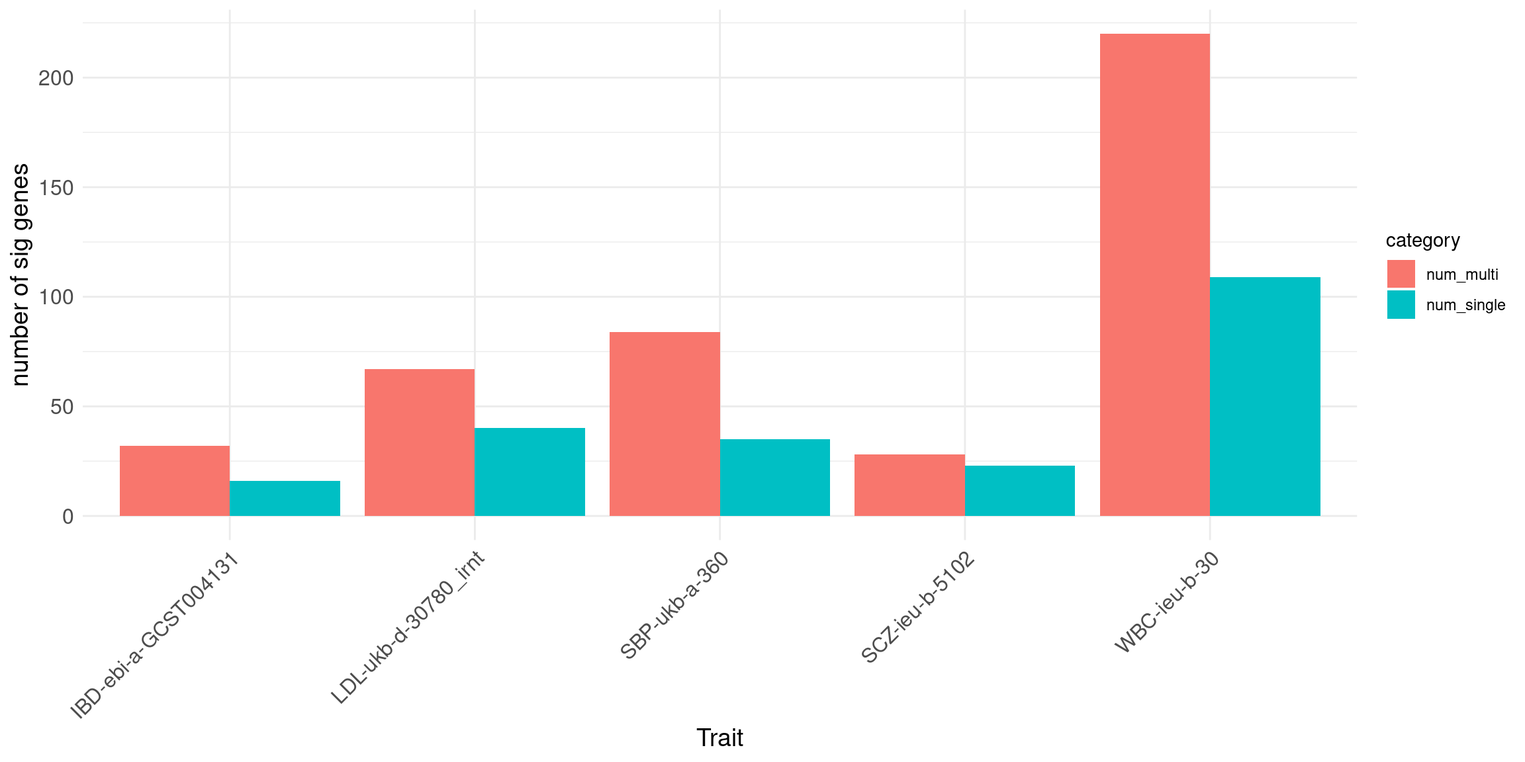
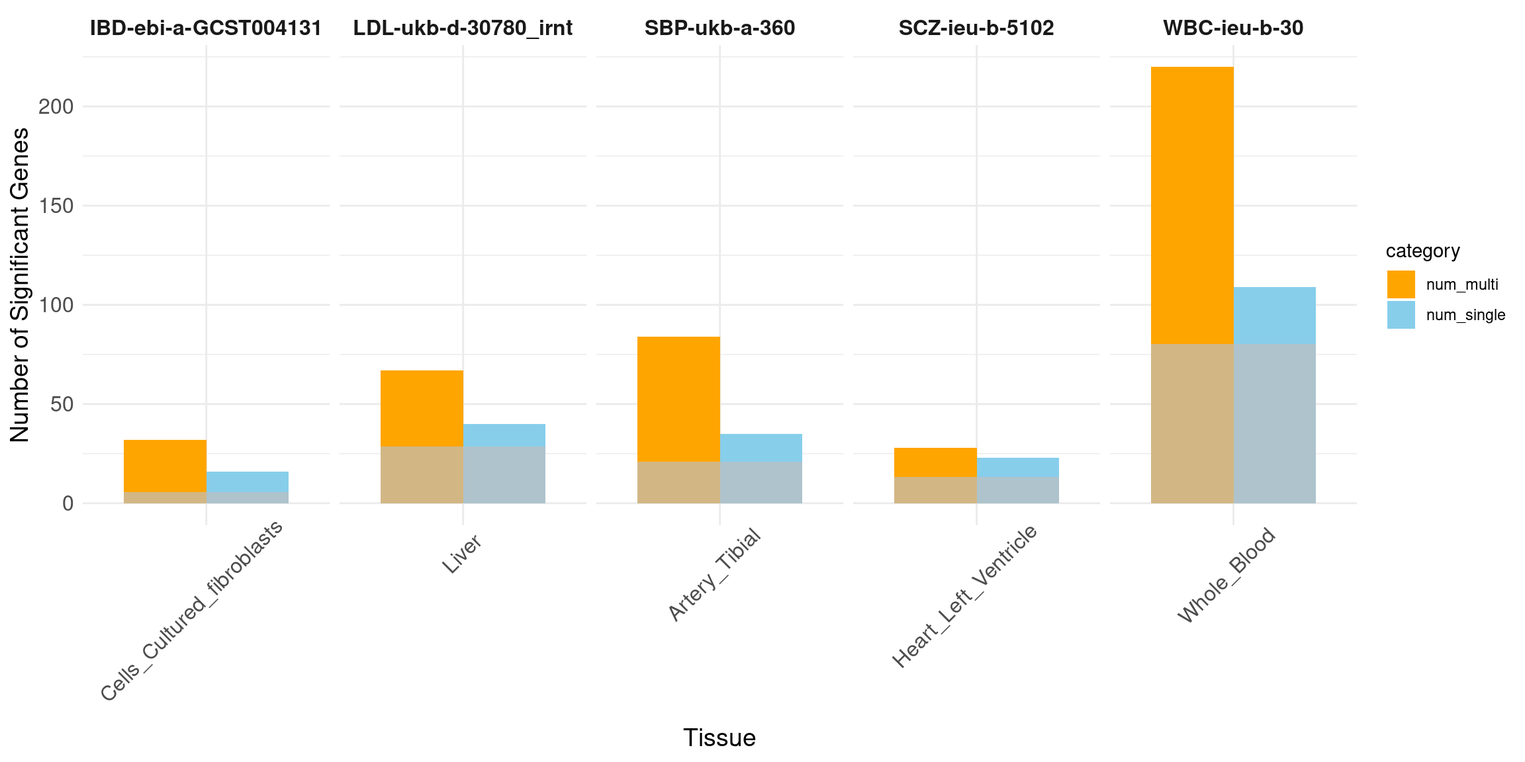
update

diff --git a/docs/multi_group_6traits_15weights_ukbb_summary.html b/docs/multi_group_6traits_15weights_ukbb_summary.html
@@ -411,7 +411,7 @@ aria-hidden="true"></span> </a>
 <div class="tab-content">
 <div id="summary" class="tab-pane fade in active">
 <p>
-<strong>Last updated:</strong> 2024-06-02
+<strong>Last updated:</strong> 2024-06-03
 </p>
 <p>
 <strong>Checks:</strong> <span
@@ -545,15 +545,15 @@ project makes it easier to run your code on other machines.</p>
 <div class="panel panel-default">
 <div class="panel-heading">
 <p class="panel-title">
-<a data-toggle="collapse" data-parent="#workflowr-checks" href="#strongRepositoryversionstrongahrefhttpsgithubcomsq96multigroupctwasanalysistree44f18aea61a1eaff3753a7bcacca99aa0e0b7742targetblank44f18aea">
+<a data-toggle="collapse" data-parent="#workflowr-checks" href="#strongRepositoryversionstrongahrefhttpsgithubcomsq96multigroupctwasanalysistreed2af15486d25367e0842e9e7d86c23d558aea039targetblankd2af154a">
 <span class="glyphicon glyphicon-ok text-success"
 aria-hidden="true"></span> <strong>Repository version:</strong>
-<a href="https://github.com/sq-96/multigroup_ctwas_analysis/tree/44f18aea61a1eaff3753a7bcacca99aa0e0b7742" target="_blank">44f18ae</a>
+<a href="https://github.com/sq-96/multigroup_ctwas_analysis/tree/d2af15486d25367e0842e9e7d86c23d558aea039" target="_blank">d2af154</a>
 </a>
 </p>
 </div>
 <div
[2 lines of base64/hex data omitted]
 class="panel-collapse collapse">
 <div class="panel-body">
 <p>
@@ -563,7 +563,7 @@ reproducibility.
 </p>
 <p>
 The results in this page were generated with repository version
-<a href="https://github.com/sq-96/multigroup_ctwas_analysis/tree/44f18aea61a1eaff3753a7bcacca99aa0e0b7742" target="_blank">44f18ae</a>.
+<a href="https://github.com/sq-96/multigroup_ctwas_analysis/tree/d2af15486d25367e0842e9e7d86c23d558aea039" target="_blank">d2af154</a>.
 See the <em>Past versions</em> tab to see a history of the changes made
 to the R Markdown and HTML files.
 </p>
@@ -630,6 +630,40 @@ Message
 </tr>
 </thead>
 <tbody>
+<tr>
+<td>
+Rmd
+</td>
+<td>
+<a href="https://github.com/sq-96/multigroup_ctwas_analysis/blob/d2af15486d25367e0842e9e7d86c23d558aea039/analysis/multi_group_6traits_15weights_ukbb_summary.Rmd" target="_blank">d2af154</a>
+</td>
+<td>
+XSun
+</td>
+<td>
+2024-06-02
+</td>
+<td>
+update
+</td>
+</tr>
+<tr>
+<td>
+html
+</td>
+<td>
+<a href="https://rawcdn.githack.com/sq-96/multigroup_ctwas_analysis/d2af15486d25367e0842e9e7d86c23d558aea039/docs/multi_group_6traits_15weights_ukbb_summary.html" target="_blank">d2af154</a>
+</td>
+<td>
+XSun
+</td>
+<td>
+2024-06-02
+</td>
+<td>
+update
+</td>
+</tr>
 <tr>
 <td>
 Rmd
@@ -920,23 +954,64 @@ XSun
 single tissue analysis).</p>
 <p>Bar plot.</p>
 <p>Message: increased power from multi-omics multi-tissue analysis.</p>
-<pre class="r"><code>data &lt;- data.frame(
-  trait = traits,
-  num_single = c(16,40,35,23,109),
-  tissue_single = c(&quot;Cells_Cultured_fibroblasts&quot;,&quot;Liver&quot;,&quot;Artery_Tibial&quot;,&quot;Heart_Left_Ventricle&quot;,&quot;Whole_Blood&quot;),
-  num_multi = c(32,67,84,28,220)
-)
+<pre class="r"><code>folder_data &lt;- &quot;/project/xinhe/xsun/multi_group_ctwas/5.multi_group_testing/analy_results/&quot;
 
-data_long &lt;- pivot_longer(data, cols = c(num_single, num_multi), names_to = &quot;category&quot;, values_to = &quot;count&quot;)
+sum &lt;- c()
+for (i in 1:length(traits)) {
+  
+  file_mg_sig &lt;- paste0(folder_data,&quot;MG_fineres_sig_&quot;,traits[i],&quot;.rdata&quot;)
+  load(file_mg_sig)
+  
+  file_sg_sig &lt;- paste0(folder_data,&quot;SG_fineres_sig_&quot;,traits[i],&quot;.rdata&quot;)
+  load(file_sg_sig)
+  
+  context_counts &lt;- sig_gene_alltissue %&gt;%
+  group_by(context) %&gt;%
+  summarise(count = n()) %&gt;%
+  ungroup()
+  
+  most_rows_context &lt;- context_counts %&gt;%
+  filter(count == max(count)) %&gt;%
+  pull(context) # Extracts the context name
 
-ggplot(data_long, aes(x = trait, y = count, fill = category)) +
-  geom_bar(stat = &quot;identity&quot;, position = position_dodge()) +
-  labs(x = &quot;Trait&quot;, y = &quot;number of sig genes&quot;) +
+  sig_gene_toptissue &lt;- sig_gene_alltissue %&gt;%
+  filter(context == most_rows_context)
+
+  overlap &lt;- sum(sig_gene_multi$genename %in% sig_gene_toptissue$gene_name)
+  
+  tmp &lt;- c(nrow(sig_gene_multi),overlap, nrow(sig_gene_toptissue),unique(sig_gene_toptissue$context))
+  sum &lt;- rbind(sum,tmp)
+}
+
+sum &lt;- as.data.frame(sum)
+colnames(sum) &lt;- c(&quot;num_multi&quot;,&quot;overlap&quot;,&quot;num_single&quot;,&quot;tissue_single&quot;)
+rownames(sum) &lt;- seq(1:nrow(sum))
+sum$trait &lt;- traits
+
+sum$num_multi &lt;- as.numeric(sum$num_multi)
+sum$num_single &lt;- as.numeric(sum$num_single)
+sum$overlap &lt;- as.numeric(sum$overlap)
+sum$overlap_adj &lt;- as.numeric(sum$overlap) * 1.1  # Adjust the value to slightly offset behind the main bars
+
+sum &lt;- sum %&gt;%
+  mutate(tissue_single = str_replace(tissue_single, &quot;_singlegroup&quot;, &quot;&quot;))
+
+data_long &lt;- pivot_longer(sum, cols = c(num_single, num_multi), names_to = &quot;category&quot;, values_to = &quot;count&quot;)
+
+# Facet by trait, with tissues as the bars
+ggplot(data_long, aes(x = tissue_single, y = count, fill = category)) +
+  geom_bar(stat = &quot;identity&quot;, position = position_dodge(width = 0.8), width = 0.8) +
+  geom_bar(data = sum, aes(x = tissue_single, y = overlap_adj), stat = &quot;identity&quot;, position = position_dodge(width = 0.8), fill = &quot;grey&quot;, alpha = 0.7, width = 0.8) +
+  facet_wrap(~ trait, nrow = 1, scales = &quot;free_x&quot;) +  # Display all facets in one row with free scales on x
+  labs(x = &quot;Tissue&quot;, y = &quot;Number of Significant Genes&quot;) +
+  scale_fill_manual(values = c(&quot;num_single&quot; = &quot;skyblue&quot;, &quot;num_multi&quot; = &quot;orange&quot;)) +
   theme_minimal() +
-  theme(axis.text.x = element_text(size = 12, angle = 45, hjust = 1), 
+  theme(axis.text.x = element_text(size = 12, angle = 45, vjust = 0.7, hjust = 0.6),  # Adjusted hjust here
         axis.text.y = element_text(size = 12),
-        axis.title.x = element_text(size = 14), 
-        axis.title.y = element_text(size = 14))</code></pre>
+        axis.title.x = element_text(size = 14),
+        axis.title.y = element_text(size = 14),
+        strip.background = element_blank(),
+        strip.text.x = element_text(size = 12, face = &quot;bold&quot;))</code></pre>
 <p><img src="figure/multi_group_6traits_15weights_ukbb_summary.Rmd/unnamed-chunk-7-1.png" width="1152" style="display: block; margin: auto;" /></p>
 <p>
 <button type="button" class="btn btn-default btn-xs btn-workflowr btn-workflowr-fig" data-toggle="collapse" data-target="#fig-unnamed-chunk-7-1">
@@ -1053,6 +1128,9 @@ mechanisms.</p>
   by_sQTLapaQTL = c(0, 2, 0, 0, 3),
   unspecified = c(3, 5, 9, 4, 32)
 )
+
+df$by_apaQTL &lt;- df$by_apaQTL + df$by_sQTLapaQTL
+df &lt;- df[,-5]
 
 # Calculate the row sums for all columns except the first (trait)
 row_totals &lt;- rowSums(df[, -1])
@@ -1207,27 +1285,27 @@ tissue analysis.</p>
 
 DT::datatable(novel_gene_multi,caption = htmltools::tags$caption( style = &#39;caption-side: topleft; text-align = left; color:black;&#39;,&#39;Novel genes identified by MG-cTWAS, IBD-ebi-a-GCST004131&#39;),options = list(pageLength = 5) )</code></pre>
 <div id="htmlwidget-4de263013227ca78a293" style="width:100%;height:auto;" class="datatables html-widget"></div>
-<script type="application/json" data-for="htmlwidget-4de263013227ca78a293">{"x":{"filter":"none","vertical":false,"caption":"<caption style=\"caption-side: topleft; text-align = left; color:black;\">Novel genes identified by MG-cTWAS, IBD-ebi-a-GCST004131<\/caption>","data":[["1","2","3","4","5","6","7","8","9","10","11","12","13","14"],["ADAM15","ATG16L1","CDK11A","ERAP2","ERI3","IP6K2","KANSL1","MAST2","PHF1","PPP5C","RTEL1","SBNO2","SPNS1","ZNF300"],[0.962,0.963,0.963,0.82,0.962,1.244,1,0.911,0.969,0.831,0.932,0.947,0.999,0.825],[0.088,0.039,0.963,0.092,0.05,0.07,1,0.05,0.969,0.009,0,0.06,0.999,0],[0.363,0.573,0,0.32,0.599,0.411,0,0.388,0,0,0,0.888,0,0.074],[0,0.018,0,0.237,0,0.549,0,0.169,0,0.499,0.932,0,0,0.728],[0.034,0.019,0,0.083,0.058,0.04,0,0.048,0,0.323,0,0,0,0.011],[0.476,0.313,0,0.088,0.255,0.174,0,0.255,0,0,0,0,0,0.012],[0,0,0.963,0.069,0,0,0,0,0.969,0,0,0,0.999,0],[0.011,0.018,0,0.329,0,0,0,0,0,0.831,0,0,0,0.802],[0.951,0.944,0,0.422,0.962,1.244,1,0.911,0,0,0.932,0.947,0,0.023],["Adipose_Subcutaneous:0.856cs_0,Esophagus_Mucosa:0.032cs_0,Whole_Blood:NA,Heart_Left_Ventricle:0.013cs_0,Cells_Cultured_fibroblasts:0.173cs_0","Adipose_Subcutaneous:NA,Esophagus_Mucosa:NA,Whole_Blood:NA,Heart_Left_Ventricle:NA,Cells_Cultured_fibroblasts:NA","Adipose_Subcutaneous:0.015cs_0,Esophagus_Mucosa:NA,Whole_Blood:NA,Heart_Left_Ventricle:NA,Cells_Cultured_fibroblasts:NA","Adipose_Subcutaneous:0.302cs_1,Esophagus_Mucosa:0.294cs_1,Whole_Blood:0.392cs_1,Heart_Left_Ventricle:0.281cs_1,Cells_Cultured_fibroblasts:0.324cs_1","Adipose_Subcutaneous:NA,Esophagus_Mucosa:NA,Whole_Blood:NA,Heart_Left_Ventricle:NA,Cells_Cultured_fibroblasts:NA","Adipose_Subcutaneous:0.008cs_0,Esophagus_Mucosa:NA,Whole_Blood:0.011cs_0,Heart_Left_Ventricle:NA,Cells_Cultured_fibroblasts:NA","Adipose_Subcutaneous:NA,Esophagus_Mucosa:NA,Whole_Blood:NA,Heart_Left_Ventricle:NA,Cells_Cultured_fibroblasts:NA","Adipose_Subcutaneous:0.014cs_0,Esophagus_Mucosa:0.018cs_0,Whole_Blood:0.019cs_0,Heart_Left_Ventricle:0.013cs_0,Cells_Cultured_fibroblasts:0.011cs_0","Adipose_Subcutaneous:NA,Esophagus_Mucosa:NA,Whole_Blood:NA,Heart_Left_Ventricle:NA,Cells_Cultured_fibroblasts:NA","Adipose_Subcutaneous:0.171cs_0,Esophagus_Mucosa:0.097cs_0,Whole_Blood:0.785cs_2,Heart_Left_Ventricle:0.73cs_2,Cells_Cultured_fibroblasts:NA","Adipose_Subcutaneous:0cs_0,Esophagus_Mucosa:NA,Whole_Blood:0cs_0,Heart_Left_Ventricle:0cs_0,Cells_Cultured_fibroblasts:NA","Adipose_Subcutaneous:NA,Esophagus_Mucosa:0.9cs_0,Whole_Blood:NA,Heart_Left_Ventricle:NA,Cells_Cultured_fibroblasts:NA","Adipose_Subcutaneous:NA,Esophagus_Mucosa:0.066cs_0,Whole_Blood:0.128cs_0,Heart_Left_Ventricle:0.04cs_0,Cells_Cultured_fibroblasts:0.024cs_0","Adipose_Subcutaneous:NA,Esophagus_Mucosa:0.601cs_1,Whole_Blood:0.793cs_1,Heart_Left_Ventricle:NA,Cells_Cultured_fibroblasts:NA"]],"container":"<table class=\"display\">\n  <thead>\n    <tr>\n      <th> <\/th>\n      <th>genename<\/th>\n      <th>combined_pip<\/th>\n      <th>Adipose_Subcutaneous<\/th>\n      <th>Esophagus_Mucosa<\/th>\n      <th>Whole_Blood<\/th>\n      <th>Heart_Left_Ventricle<\/th>\n      <th>Cells_Cultured_fibroblasts<\/th>\n      <th>apaQTL<\/th>\n      <th>eQTL<\/th>\n      <th>sQTL<\/th>\n      <th>pip_single_group<\/th>\n    <\/tr>\n  <\/thead>\n<\/table>","options":{"pageLength":5,"columnDefs":[{"className":"dt-right","targets":[2,3,4,5,6,7,8,9,10]},{"orderable":false,"targets":0}],"order":[],"autoWidth":false,"orderClasses":false,"lengthMenu":[5,10,25,50,100]}},"evals":[],"jsHooks":[]}</script>
+<script type="application/json" data-for="htmlwidget-4de263013227ca78a293">{"x":{"filter":"none","vertical":false,"caption":"<caption style=\"caption-side: topleft; text-align = left; color:black;\">Novel genes identified by MG-cTWAS, IBD-ebi-a-GCST004131<\/caption>","data":[[],[],[],[],[],[],[],[],[],[],[],[]],"container":"<table class=\"display\">\n  <thead>\n    <tr>\n      <th> <\/th>\n      <th>genename<\/th>\n      <th>combined_pip<\/th>\n      <th>Adipose_Subcutaneous<\/th>\n      <th>Esophagus_Mucosa<\/th>\n      <th>Whole_Blood<\/th>\n      <th>Heart_Left_Ventricle<\/th>\n      <th>Cells_Cultured_fibroblasts<\/th>\n      <th>apaQTL<\/th>\n      <th>eQTL<\/th>\n      <th>sQTL<\/th>\n      <th>pip_single_group<\/th>\n    <\/tr>\n  <\/thead>\n<\/table>","options":{"pageLength":5,"columnDefs":[{"className":"dt-right","targets":[2,3,4,5,6,7,8,9,10]},{"orderable":false,"targets":0}],"order":[],"autoWidth":false,"orderClasses":false,"lengthMenu":[5,10,25,50,100]}},"evals":[],"jsHooks":[]}</script>
 <pre class="r"><code>load(&quot;/project/xinhe/xsun/multi_group_ctwas/5.multi_group_testing/analy_results/novelgenes_LDL-ukb-d-30780_irnt.rdata&quot;)
 
 DT::datatable(novel_gene_multi,caption = htmltools::tags$caption( style = &#39;caption-side: topleft; text-align = left; color:black;&#39;,&#39;Novel genes identified by MG-cTWAS, LDL-ukb-o-30780_irnt&#39;),options = list(pageLength = 5) )</code></pre>
 <div id="htmlwidget-20575149739a71fc930f" style="width:100%;height:auto;" class="datatables html-widget"></div>
-<script type="application/json" data-for="htmlwidget-20575149739a71fc930f">{"x":{"filter":"none","vertical":false,"caption":"<caption style=\"caption-side: topleft; text-align = left; color:black;\">Novel genes identified by MG-cTWAS, LDL-ukb-o-30780_irnt<\/caption>","data":[["1","2","3","4","5","6","7","8","9","10","11","12","13","14","15","16","17","18","19","20","21","22","23","24","25","26","27","28","29"],["ADH1B","APOB","ASGR1","CCDC57","CCNJ","ERGIC3","HLA-DRB5","HMGCR","HP","KIF13B","KMT2E","LDLR","LIPC","LRCH4","MYPOP","NPEPPS","PGS1","R3HDM2","RAC1","SMARCA4","SUGP1","THOP1","TMEM57","TRAK2","TRIM5","ZDHHC18","ZGPAT","ZHX3","ZNF227"],[0.975,1,0.999,0.813,1,0.945,1,0.973,0.989,0.909,1,1,0.891,0.958,0.968,0.952,0.89,0.872,0.961,0.988,0.98,1.01,0.949,1,0.896,0.981,1,0.875,0.983],[0,1,0,0.05,1,0,0,0.794,0,0.082,0,0,0,0.026,0.257,0.345,0.027,0.153,0,0.988,0,0.012,0.09,1,0.204,0,0,0.157,0],[0,0,0.999,0.28,0,0.424,1,0,0.989,0.356,0,1,0.891,0.779,0,0,0.246,0.238,0.961,0,0,0.307,0.425,0,0.422,0,1,0.678,0],[0.975,0,0,0.455,0,0.445,0,0,0,0.455,1,0,0,0.153,0.711,0.568,0.561,0.452,0,0,0,0.551,0.403,0,0.27,0.981,0,0,0.983],[0,0,0,0.025,0,0.063,0,0.151,0,0.016,0,0,0,0,0,0.038,0.056,0.021,0,0,0.98,0.141,0.027,0,0,0,0,0.03,0],[0,0,0,0.002,0,0.013,0,0.028,0,0,0,0,0,0,0,0,0,0.009,0,0,0,0,0.003,0,0,0,0,0.011,0],[0,1,0,0.015,1,0,0,0,0,0,1,0,0,0,0,0.14,0,0,0,0,0,0,0.028,1,0,0,1,0,0],[0.975,0,0.999,0.601,0,0.945,0,0.973,0.989,0.909,0,1,0.891,0.958,0.968,0.812,0.89,0.872,0,0,0.98,0.533,0.921,0,0.896,0.981,0,0.875,0.983],[0,0,0,0.197,0,0,1,0,0,0,0,0,0,0,0,0,0,0,0.961,0.988,0,0.478,0,0,0,0,0,0,0],["Esophagus_Mucosa:0.042cs_0,Liver:NA,Spleen:NA,Adipose_Subcutaneous:0.309cs_0,Adrenal_Gland:NA","Esophagus_Mucosa:NA,Liver:NA,Spleen:NA,Adipose_Subcutaneous:NA,Adrenal_Gland:NA","Esophagus_Mucosa:0.045cs_0,Liver:NA,Spleen:NA,Adipose_Subcutaneous:0.088cs_0,Adrenal_Gland:NA","Esophagus_Mucosa:0.439cs_1,Liver:0.032cs_0,Spleen:0.156cs_1,Adipose_Subcutaneous:0.22cs_1,Adrenal_Gland:NA","Esophagus_Mucosa:0.001cs_0,Liver:NA,Spleen:NA,Adipose_Subcutaneous:0.001cs_0,Adrenal_Gland:NA","Esophagus_Mucosa:NA,Liver:NA,Spleen:0.12cs_1,Adipose_Subcutaneous:0.256cs_1,Adrenal_Gland:NA","Esophagus_Mucosa:0.029cs_0,Liver:0.014cs_0,Spleen:0.024cs_0,Adipose_Subcutaneous:0.031cs_0,Adrenal_Gland:NA","Esophagus_Mucosa:NA,Liver:NA,Spleen:NA,Adipose_Subcutaneous:NA,Adrenal_Gland:NA","Esophagus_Mucosa:NA,Liver:NA,Spleen:0.002cs_0,Adipose_Subcutaneous:0.003cs_0,Adrenal_Gland:0.001cs_0","Esophagus_Mucosa:NA,Liver:NA,Spleen:NA,Adipose_Subcutaneous:NA,Adrenal_Gland:NA","Esophagus_Mucosa:NA,Liver:NA,Spleen:NA,Adipose_Subcutaneous:0cs_0,Adrenal_Gland:NA","Esophagus_Mucosa:0cs_0,Liver:NA,Spleen:0.583cs_2,Adipose_Subcutaneous:NA,Adrenal_Gland:NA","Esophagus_Mucosa:NA,Liver:NA,Spleen:NA,Adipose_Subcutaneous:NA,Adrenal_Gland:NA","Esophagus_Mucosa:0.134cs_0,Liver:0.014cs_0,Spleen:0.021cs_0,Adipose_Subcutaneous:0.028cs_0,Adrenal_Gland:NA","Esophagus_Mucosa:NA,Liver:NA,Spleen:NA,Adipose_Subcutaneous:NA,Adrenal_Gland:NA","Esophagus_Mucosa:0.131cs_1,Liver:0cs_0,Spleen:0cs_0,Adipose_Subcutaneous:0.001cs_0,Adrenal_Gland:NA","Esophagus_Mucosa:NA,Liver:NA,Spleen:NA,Adipose_Subcutaneous:0.071cs_0,Adrenal_Gland:NA","Esophagus_Mucosa:0.082cs_0,Liver:NA,Spleen:NA,Adipose_Subcutaneous:0.097cs_0,Adrenal_Gland:0.018cs_0","Esophagus_Mucosa:0.081cs_0,Liver:NA,Spleen:NA,Adipose_Subcutaneous:0.039cs_0,Adrenal_Gland:NA","Esophagus_Mucosa:0cs_0,Liver:NA,Spleen:NA,Adipose_Subcutaneous:NA,Adrenal_Gland:NA","Esophagus_Mucosa:NA,Liver:NA,Spleen:NA,Adipose_Subcutaneous:NA,Adrenal_Gland:NA","Esophagus_Mucosa:NA,Liver:NA,Spleen:NA,Adipose_Subcutaneous:NA,Adrenal_Gland:NA","Esophagus_Mucosa:0.055cs_0,Liver:0.133cs_1,Spleen:0.08cs_1,Adipose_Subcutaneous:0.035cs_0,Adrenal_Gland:0.109cs_1","Esophagus_Mucosa:NA,Liver:NA,Spleen:NA,Adipose_Subcutaneous:NA,Adrenal_Gland:NA","Esophagus_Mucosa:NA,Liver:NA,Spleen:0.832cs_0,Adipose_Subcutaneous:NA,Adrenal_Gland:NA","Esophagus_Mucosa:0.053cs_0,Liver:0.018cs_0,Spleen:0.068cs_0,Adipose_Subcutaneous:NA,Adrenal_Gland:NA","Esophagus_Mucosa:NA,Liver:0cs_0,Spleen:NA,Adipose_Subcutaneous:NA,Adrenal_Gland:NA","Esophagus_Mucosa:NA,Liver:NA,Spleen:NA,Adipose_Subcutaneous:NA,Adrenal_Gland:NA","Esophagus_Mucosa:0.008cs_0,Liver:0.002cs_0,Spleen:0.002cs_0,Adipose_Subcutaneous:0.003cs_0,Adrenal_Gland:0cs_0"]],"container":"<table class=\"display\">\n  <thead>\n    <tr>\n      <th> <\/th>\n      <th>genename<\/th>\n      <th>combined_pip<\/th>\n      <th>Esophagus_Mucosa<\/th>\n      <th>Liver<\/th>\n      <th>Spleen<\/th>\n      <th>Adipose_Subcutaneous<\/th>\n      <th>Adrenal_Gland<\/th>\n      <th>eQTL<\/th>\n      <th>sQTL<\/th>\n      <th>apaQTL<\/th>\n      <th>pip_single_group<\/th>\n    <\/tr>\n  <\/thead>\n<\/table>","options":{"pageLength":5,"columnDefs":[{"className":"dt-right","targets":[2,3,4,5,6,7,8,9,10]},{"orderable":false,"targets":0}],"order":[],"autoWidth":false,"orderClasses":false,"lengthMenu":[5,10,25,50,100]}},"evals":[],"jsHooks":[]}</script>
+<script type="application/json" data-for="htmlwidget-20575149739a71fc930f">{"x":{"filter":"none","vertical":false,"caption":"<caption style=\"caption-side: topleft; text-align = left; color:black;\">Novel genes identified by MG-cTWAS, LDL-ukb-o-30780_irnt<\/caption>","data":[[],[],[],[],[],[],[],[],[],[],[],[]],"container":"<table class=\"display\">\n  <thead>\n    <tr>\n      <th> <\/th>\n      <th>genename<\/th>\n      <th>combined_pip<\/th>\n      <th>Esophagus_Mucosa<\/th>\n      <th>Liver<\/th>\n      <th>Spleen<\/th>\n      <th>Adipose_Subcutaneous<\/th>\n      <th>Adrenal_Gland<\/th>\n      <th>eQTL<\/th>\n      <th>sQTL<\/th>\n      <th>apaQTL<\/th>\n      <th>pip_single_group<\/th>\n    <\/tr>\n  <\/thead>\n<\/table>","options":{"pageLength":5,"columnDefs":[{"className":"dt-right","targets":[2,3,4,5,6,7,8,9,10]},{"orderable":false,"targets":0}],"order":[],"autoWidth":false,"orderClasses":false,"lengthMenu":[5,10,25,50,100]}},"evals":[],"jsHooks":[]}</script>
 <pre class="r"><code>load(&quot;/project/xinhe/xsun/multi_group_ctwas/5.multi_group_testing/analy_results/novelgenes_SBP-ukb-a-360.rdata&quot;)
 
 DT::datatable(novel_gene_multi,caption = htmltools::tags$caption( style = &#39;caption-side: topleft; text-align = left; color:black;&#39;,&#39;Novel genes identified by MG-cTWAS, SBP-ukb-a-360&#39;),options = list(pageLength = 5) )</code></pre>
 <div id="htmlwidget-a23c348805048a1f64c7" style="width:100%;height:auto;" class="datatables html-widget"></div>
-<script type="application/json" data-for="htmlwidget-a23c348805048a1f64c7">{"x":{"filter":"none","vertical":false,"caption":"<caption style=\"caption-side: topleft; text-align = left; color:black;\">Novel genes identified by MG-cTWAS, SBP-ukb-a-360<\/caption>","data":[["1","2","3","4","5","6","7","8","9","10","11","12","13","14","15","16","17","18","19","20","21","22","23","24","25","26","27","28","29","30","31","32","33","34","35","36","37","38","39","40","41","42","43","44","45","46"],["ADH1B","ADHFE1","ARHGAP42","ARHGEF12","ATG7","BAG6","C1orf21","CEP68","CFDP1","CRLF3","CSE1L","DYNC1I2","FAM214A","FURIN","GOLGB1","HAUS8","LRP4","MCPH1","MRC2","MRPL21","MRVI1","NAA60","NDUFAF1","NECAB1","NOTCH3","NPR1","PAWR","PRKAB1","PRKD3","PTPN13","RAB34","SEC61A2","SGSM3","SLC16A7","SLC9A3R2","SMAD5","STYX","SUGCT","SYNPO2L","TBRG4","THBS2","TRPM7","ULK4","WLS","WNK1","YWHAE"],[0.913,0.966,1,0.968,1.112,1,1,0.962,1.488,1,1,0.829,0.964,0.949,0.97,1,0.91,1.668,0.858,0.82,0.818,1.001,0.827,0.985,0.976,0.934,0.983,1.165,0.987,1.606,0.978,0.968,0.97,0.979,0.994,0.963,0.999,0.848,0.862,0.999,0.983,0.996,1.003,0.939,0.999,1.375],[0,0.368,0.098,0,0.995,1,0,0.426,0.268,0,0,0.489,0.368,0.949,0.534,0,0,0.706,0.858,0.06,0.556,0,0,0,0,0.934,0.977,0,0.376,1.554,0.172,0,0.911,0,0.378,0.266,0.999,0.848,0.322,0.999,0.983,0.245,0.329,0.005,0,0],[0.913,0.597,0,0,0,0,1,0,1.219,0,0,0,0.596,0,0.436,0,0,0.961,0,0.552,0.261,0,0.827,0,0.976,0,0,0,0.611,0,0.726,0,0,0.979,0.415,0.697,0,0,0.539,0,0,0.751,0,0,0.999,0],[0,0,0,0.968,0,0,0,0.536,0,0,0.338,0.093,0,0,0,0,0,0,0,0.195,0,0,0,0,0,0,0,0.771,0,0,0,0.968,0,0,0,0,0,0,0,0,0,0,0.181,0,0,0],[0,0,0,0,0.116,0,0,0,0,0,0.662,0.145,0,0,0,0,0.91,0,0,0.013,0,1.001,0,0.985,0,0,0,0.393,0,0.052,0.08,0,0.059,0,0,0,0,0,0,0,0,0,0.395,0.933,0,1.375],[0,0,0.902,0,0,0,0,0,0,1,0,0.102,0,0,0,1,0,0,0,0,0,0,0,0,0,0,0.006,0,0,0,0,0,0,0,0.201,0,0,0,0,0,0,0,0.097,0,0,0],[0.913,0.966,0,0.968,1.112,1,1,0.426,1.488,1,1,0.038,0.964,0.949,0.97,1,0,1.668,0.858,0.625,0.818,0.967,0.827,0.985,0.976,0.934,0,1.165,0.987,1.606,0.949,0.968,0.97,0.979,0,0.963,0.999,0,0.539,0.999,0,0.996,0,0.005,0.999,1.375],[0,0,1,0,0,0,0,0.536,0,0,0,0.249,0,0,0,0,0.91,0,0,0.195,0,0,0,0,0,0,0.006,0,0,0,0.03,0,0,0,0,0,0,0,0.322,0,0.983,0,1.003,0.933,0,0],[0,0,0,0,0,0,0,0,0,0,0,0.542,0,0,0,0,0,0,0,0,0,0.035,0,0,0,0,0.977,0,0,0,0,0,0,0,0.994,0,0,0.848,0,0,0,0,0,0,0,0],["Artery_Tibial:0.035cs_0,Heart_Left_Ventricle:NA,Spleen:0.042cs_0,Brain_Cortex:0.045cs_0,Adipose_Subcutaneous:0.025cs_0","Artery_Tibial:NA,Heart_Left_Ventricle:NA,Spleen:NA,Brain_Cortex:NA,Adipose_Subcutaneous:NA","Artery_Tibial:0.207cs_1,Heart_Left_Ventricle:0.722cs_1,Spleen:NA,Brain_Cortex:NA,Adipose_Subcutaneous:NA","Artery_Tibial:0cs_0,Heart_Left_Ventricle:NA,Spleen:0cs_0,Brain_Cortex:0cs_0,Adipose_Subcutaneous:0cs_0","Artery_Tibial:NA,Heart_Left_Ventricle:NA,Spleen:NA,Brain_Cortex:0cs_0,Adipose_Subcutaneous:NA","Artery_Tibial:0cs_0,Heart_Left_Ventricle:NA,Spleen:0cs_0,Brain_Cortex:0cs_0,Adipose_Subcutaneous:0cs_0","Artery_Tibial:NA,Heart_Left_Ventricle:NA,Spleen:NA,Brain_Cortex:NA,Adipose_Subcutaneous:NA","Artery_Tibial:NA,Heart_Left_Ventricle:NA,Spleen:NA,Brain_Cortex:NA,Adipose_Subcutaneous:NA","Artery_Tibial:0cs_0,Heart_Left_Ventricle:NA,Spleen:0cs_0,Brain_Cortex:NA,Adipose_Subcutaneous:0cs_0","Artery_Tibial:0cs_0,Heart_Left_Ventricle:0cs_0,Spleen:0.769cs_3,Brain_Cortex:0cs_0,Adipose_Subcutaneous:0cs_0","Artery_Tibial:0cs_0,Heart_Left_Ventricle:0cs_0,Spleen:NA,Brain_Cortex:NA,Adipose_Subcutaneous:NA","Artery_Tibial:0.016cs_0,Heart_Left_Ventricle:0.008cs_0,Spleen:0.696cs_1,Brain_Cortex:0.582cs_1,Adipose_Subcutaneous:0.455cs_1","Artery_Tibial:0cs_0,Heart_Left_Ventricle:NA,Spleen:NA,Brain_Cortex:NA,Adipose_Subcutaneous:NA","Artery_Tibial:0cs_0,Heart_Left_Ventricle:NA,Spleen:NA,Brain_Cortex:0.006cs_0,Adipose_Subcutaneous:NA","Artery_Tibial:NA,Heart_Left_Ventricle:NA,Spleen:NA,Brain_Cortex:0.018cs_0,Adipose_Subcutaneous:NA","Artery_Tibial:0cs_0,Heart_Left_Ventricle:0cs_0,Spleen:0cs_0,Brain_Cortex:0cs_0,Adipose_Subcutaneous:0cs_0","Artery_Tibial:NA,Heart_Left_Ventricle:NA,Spleen:NA,Brain_Cortex:0.004cs_0,Adipose_Subcutaneous:NA","Artery_Tibial:0cs_0,Heart_Left_Ventricle:NA,Spleen:NA,Brain_Cortex:0cs_0,Adipose_Subcutaneous:NA","Artery_Tibial:0.001cs_0,Heart_Left_Ventricle:NA,Spleen:NA,Brain_Cortex:NA,Adipose_Subcutaneous:0.003cs_0","Artery_Tibial:0cs_0,Heart_Left_Ventricle:NA,Spleen:NA,Brain_Cortex:0cs_0,Adipose_Subcutaneous:0cs_0","Artery_Tibial:NA,Heart_Left_Ventricle:NA,Spleen:NA,Brain_Cortex:NA,Adipose_Subcutaneous:NA","Artery_Tibial:0.001cs_0,Heart_Left_Ventricle:0cs_0,Spleen:0cs_0,Brain_Cortex:NA,Adipose_Subcutaneous:0cs_0","Artery_Tibial:0cs_0,Heart_Left_Ventricle:0cs_0,Spleen:0cs_0,Brain_Cortex:0cs_0,Adipose_Subcutaneous:0cs_0","Artery_Tibial:NA,Heart_Left_Ventricle:NA,Spleen:NA,Brain_Cortex:NA,Adipose_Subcutaneous:NA","Artery_Tibial:NA,Heart_Left_Ventricle:NA,Spleen:NA,Brain_Cortex:NA,Adipose_Subcutaneous:NA","Artery_Tibial:0.038cs_0,Heart_Left_Ventricle:0.021cs_0,Spleen:NA,Brain_Cortex:0.03cs_0,Adipose_Subcutaneous:0.017cs_0","Artery_Tibial:NA,Heart_Left_Ventricle:NA,Spleen:NA,Brain_Cortex:NA,Adipose_Subcutaneous:NA","Artery_Tibial:0cs_0,Heart_Left_Ventricle:NA,Spleen:NA,Brain_Cortex:NA,Adipose_Subcutaneous:NA","Artery_Tibial:NA,Heart_Left_Ventricle:NA,Spleen:NA,Brain_Cortex:NA,Adipose_Subcutaneous:NA","Artery_Tibial:NA,Heart_Left_Ventricle:NA,Spleen:NA,Brain_Cortex:NA,Adipose_Subcutaneous:NA","Artery_Tibial:0.333cs_0,Heart_Left_Ventricle:0.284cs_0,Spleen:0.071cs_0,Brain_Cortex:NA,Adipose_Subcutaneous:0.025cs_0","Artery_Tibial:0.025cs_0,Heart_Left_Ventricle:0cs_0,Spleen:NA,Brain_Cortex:NA,Adipose_Subcutaneous:NA","Artery_Tibial:NA,Heart_Left_Ventricle:NA,Spleen:NA,Brain_Cortex:NA,Adipose_Subcutaneous:NA","Artery_Tibial:NA,Heart_Left_Ventricle:NA,Spleen:NA,Brain_Cortex:NA,Adipose_Subcutaneous:NA","Artery_Tibial:NA,Heart_Left_Ventricle:NA,Spleen:NA,Brain_Cortex:NA,Adipose_Subcutaneous:NA","Artery_Tibial:NA,Heart_Left_Ventricle:NA,Spleen:NA,Brain_Cortex:0cs_0,Adipose_Subcutaneous:NA","Artery_Tibial:0cs_0,Heart_Left_Ventricle:NA,Spleen:NA,Brain_Cortex:NA,Adipose_Subcutaneous:NA","Artery_Tibial:NA,Heart_Left_Ventricle:NA,Spleen:NA,Brain_Cortex:NA,Adipose_Subcutaneous:NA","Artery_Tibial:0.762cs_1,Heart_Left_Ventricle:0.613cs_1,Spleen:NA,Brain_Cortex:NA,Adipose_Subcutaneous:NA","Artery_Tibial:0cs_0,Heart_Left_Ventricle:0cs_0,Spleen:NA,Brain_Cortex:0cs_0,Adipose_Subcutaneous:0.009cs_0","Artery_Tibial:0.951cs_0,Heart_Left_Ventricle:NA,Spleen:NA,Brain_Cortex:NA,Adipose_Subcutaneous:NA","Artery_Tibial:NA,Heart_Left_Ventricle:NA,Spleen:0cs_0,Brain_Cortex:NA,Adipose_Subcutaneous:NA","Artery_Tibial:NA,Heart_Left_Ventricle:NA,Spleen:NA,Brain_Cortex:NA,Adipose_Subcutaneous:NA","Artery_Tibial:NA,Heart_Left_Ventricle:NA,Spleen:NA,Brain_Cortex:0cs_0,Adipose_Subcutaneous:NA","Artery_Tibial:0cs_0,Heart_Left_Ventricle:NA,Spleen:NA,Brain_Cortex:NA,Adipose_Subcutaneous:NA","Artery_Tibial:NA,Heart_Left_Ventricle:NA,Spleen:NA,Brain_Cortex:NA,Adipose_Subcutaneous:NA"]],"container":"<table class=\"display\">\n  <thead>\n    <tr>\n      <th> <\/th>\n      <th>genename<\/th>\n      <th>combined_pip<\/th>\n      <th>Artery_Tibial<\/th>\n      <th>Heart_Left_Ventricle<\/th>\n      <th>Spleen<\/th>\n      <th>Brain_Cortex<\/th>\n      <th>Adipose_Subcutaneous<\/th>\n      <th>sQTL<\/th>\n      <th>eQTL<\/th>\n      <th>apaQTL<\/th>\n      <th>pip_single_group<\/th>\n    <\/tr>\n  <\/thead>\n<\/table>","options":{"pageLength":5,"columnDefs":[{"className":"dt-right","targets":[2,3,4,5,6,7,8,9,10]},{"orderable":false,"targets":0}],"order":[],"autoWidth":false,"orderClasses":false,"lengthMenu":[5,10,25,50,100]}},"evals":[],"jsHooks":[]}</script>
+<script type="application/json" data-for="htmlwidget-a23c348805048a1f64c7">{"x":{"filter":"none","vertical":false,"caption":"<caption style=\"caption-side: topleft; text-align = left; color:black;\">Novel genes identified by MG-cTWAS, SBP-ukb-a-360<\/caption>","data":[[],[],[],[],[],[],[],[],[],[],[],[]],"container":"<table class=\"display\">\n  <thead>\n    <tr>\n      <th> <\/th>\n      <th>genename<\/th>\n      <th>combined_pip<\/th>\n      <th>Artery_Tibial<\/th>\n      <th>Heart_Left_Ventricle<\/th>\n      <th>Spleen<\/th>\n      <th>Brain_Cortex<\/th>\n      <th>Adipose_Subcutaneous<\/th>\n      <th>sQTL<\/th>\n      <th>eQTL<\/th>\n      <th>apaQTL<\/th>\n      <th>pip_single_group<\/th>\n    <\/tr>\n  <\/thead>\n<\/table>","options":{"pageLength":5,"columnDefs":[{"className":"dt-right","targets":[2,3,4,5,6,7,8,9,10]},{"orderable":false,"targets":0}],"order":[],"autoWidth":false,"orderClasses":false,"lengthMenu":[5,10,25,50,100]}},"evals":[],"jsHooks":[]}</script>
 <pre class="r"><code>load(&quot;/project/xinhe/xsun/multi_group_ctwas/5.multi_group_testing/analy_results/novelgenes_SCZ-ieu-b-5102.rdata&quot;)
 
 DT::datatable(novel_gene_multi,caption = htmltools::tags$caption( style = &#39;caption-side: topleft; text-align = left; color:black;&#39;,&#39;Novel genes identified by MG-cTWAS, SCZ-ieu-b-5102&#39;),options = list(pageLength = 5) )</code></pre>
 <div id="htmlwidget-93928d62269dcef60a51" style="width:100%;height:auto;" class="datatables html-widget"></div>
-<script type="application/json" data-for="htmlwidget-93928d62269dcef60a51">{"x":{"filter":"none","vertical":false,"caption":"<caption style=\"caption-side: topleft; text-align = left; color:black;\">Novel genes identified by MG-cTWAS, SCZ-ieu-b-5102<\/caption>","data":[["1","2","3","4","5","6","7","8","9"],["CHST2","CUL9","HLA-DMA","MICB","MRPS33","R3HDM2","THYN1","TRIM38","ZDHHC17"],[0.944,0.906,0.89,0.999,0.973,0.942,0.851,1,0.868],[0,0.171,0.009,0.999,0.126,0.335,0.851,0,0],[0,0.057,0,0,0.16,0,0,1,0.265],[0.418,0.291,0,0,0,0,0,0,0.603],[0,0.079,0,0,0,0,0,0,0],[0.527,0.309,0.88,0,0.687,0.607,0,0,0],[0,0.444,0.872,0,0,0,0,0,0],[0.944,0.462,0.018,0.999,0.973,0.942,0,0,0.868],[0,0,0,0,0,0,0.851,1,0],["Heart_Left_Ventricle:NA,Adrenal_Gland:NA,Artery_Coronary:NA,Stomach:NA,Brain_Cerebellum:NA","Heart_Left_Ventricle:0.774cs_1,Adrenal_Gland:NA,Artery_Coronary:0.739cs_1,Stomach:0.733cs_1,Brain_Cerebellum:0.773cs_1","Heart_Left_Ventricle:NA,Adrenal_Gland:NA,Artery_Coronary:0cs_0,Stomach:NA,Brain_Cerebellum:0.717cs_1","Heart_Left_Ventricle:0.073cs_0,Adrenal_Gland:0.041cs_0,Artery_Coronary:NA,Stomach:0.03cs_0,Brain_Cerebellum:0.042cs_0","Heart_Left_Ventricle:NA,Adrenal_Gland:NA,Artery_Coronary:NA,Stomach:NA,Brain_Cerebellum:NA","Heart_Left_Ventricle:0.033cs_0,Adrenal_Gland:0.308cs_0,Artery_Coronary:NA,Stomach:0.031cs_0,Brain_Cerebellum:NA","Heart_Left_Ventricle:NA,Adrenal_Gland:NA,Artery_Coronary:NA,Stomach:NA,Brain_Cerebellum:NA","Heart_Left_Ventricle:0cs_0,Adrenal_Gland:0cs_0,Artery_Coronary:0cs_0,Stomach:0cs_0,Brain_Cerebellum:0cs_0","Heart_Left_Ventricle:NA,Adrenal_Gland:NA,Artery_Coronary:NA,Stomach:NA,Brain_Cerebellum:NA"]],"container":"<table class=\"display\">\n  <thead>\n    <tr>\n      <th> <\/th>\n      <th>genename<\/th>\n      <th>combined_pip<\/th>\n      <th>Heart_Left_Ventricle<\/th>\n      <th>Adrenal_Gland<\/th>\n      <th>Artery_Coronary<\/th>\n      <th>Stomach<\/th>\n      <th>Brain_Cerebellum<\/th>\n      <th>eQTL<\/th>\n      <th>sQTL<\/th>\n      <th>apaQTL<\/th>\n      <th>pip_single_group<\/th>\n    <\/tr>\n  <\/thead>\n<\/table>","options":{"pageLength":5,"columnDefs":[{"className":"dt-right","targets":[2,3,4,5,6,7,8,9,10]},{"orderable":false,"targets":0}],"order":[],"autoWidth":false,"orderClasses":false,"lengthMenu":[5,10,25,50,100]}},"evals":[],"jsHooks":[]}</script>
+<script type="application/json" data-for="htmlwidget-93928d62269dcef60a51">{"x":{"filter":"none","vertical":false,"caption":"<caption style=\"caption-side: topleft; text-align = left; color:black;\">Novel genes identified by MG-cTWAS, SCZ-ieu-b-5102<\/caption>","data":[[],[],[],[],[],[],[],[],[],[],[],[]],"container":"<table class=\"display\">\n  <thead>\n    <tr>\n      <th> <\/th>\n      <th>genename<\/th>\n      <th>combined_pip<\/th>\n      <th>Heart_Left_Ventricle<\/th>\n      <th>Adrenal_Gland<\/th>\n      <th>Artery_Coronary<\/th>\n      <th>Stomach<\/th>\n      <th>Brain_Cerebellum<\/th>\n      <th>eQTL<\/th>\n      <th>sQTL<\/th>\n      <th>apaQTL<\/th>\n      <th>pip_single_group<\/th>\n    <\/tr>\n  <\/thead>\n<\/table>","options":{"pageLength":5,"columnDefs":[{"className":"dt-right","targets":[2,3,4,5,6,7,8,9,10]},{"orderable":false,"targets":0}],"order":[],"autoWidth":false,"orderClasses":false,"lengthMenu":[5,10,25,50,100]}},"evals":[],"jsHooks":[]}</script>
 <pre class="r"><code>load(&quot;/project/xinhe/xsun/multi_group_ctwas/5.multi_group_testing/analy_results/novelgenes_WBC-ieu-b-30.rdata&quot;)
 
 DT::datatable(novel_gene_multi,caption = htmltools::tags$caption( style = &#39;caption-side: topleft; text-align = left; color:black;&#39;,&#39;Novel genes identified by MG-cTWAS, WBC-ieu-b-30&#39;),options = list(pageLength = 5) )</code></pre>
 <div id="htmlwidget-16707cd634e93674753d" style="width:100%;height:auto;" class="datatables html-widget"></div>
-<script type="application/json" data-for="htmlwidget-16707cd634e93674753d">{"x":{"filter":"none","vertical":false,"caption":"<caption style=\"caption-side: topleft; text-align = left; color:black;\">Novel genes identified by MG-cTWAS, WBC-ieu-b-30<\/caption>","data":[["1","2","3","4","5","6","7","8","9","10","11","12","13","14","15","16","17","18","19","20","21","22","23","24","25","26","27","28","29","30","31","32","33","34","35","36","37","38","39","40","41","42","43","44","45","46","47","48","49","50","51","52","53","54","55","56","57","58","59","60","61","62","63","64","65","66","67","68","69","70","71","72","73","74","75","76","77","78","79","80","81","82"],["ANKRD44","AP3D1","ARVCF","ASL","BAX","C18orf25","CALCOCO2","CAPZB","CARS2","CCDC125","CCDC82","CCZ1","CCZ1B","CD33","CD36","CEP83","CEPT1","CNIH4","CPEB4","CRLS1","CSF3R","CTSC","DLG5","DMXL1","FAM45A","FIP1L1","FN1","GBAS","GPR157","HSD17B1","IFIH1","IL1B","IL1RN","ING5","INPP5D","ITGAX","ITGB2","ITSN2","LIMS2","LRBA","LYZ","MANBA","MAP3K4","MCCC1","MED24","MICAL3","MICB","MYO1G","NECTIN2","NPAS2","NPM1","OAS1","PARP12","PCM1","PCYT1A","PDLIM2","PECAM1","PIGL","POLR3A","PSD4","PTPN1","RABEP1","RABGEF1","RBM38","RRP12","SEC22A","SEC31A","SLC22A5","SLC45A3","STARD3NL","TBC1D10C","TEAD1","TNS3","TSPAN32","VSIR","WDFY2","XPO6","YAP1","ZC2HC1A","ZC3HC1","ZFPM1","ZRANB2"],[1,0.823,0.824,0.962,0.985,0.966,0.959,0.913,0.965,1.53,0.929,1,1.927,0.981,0.881,0.882,0.828,0.82,1.558,0.88,1,0.946,0.891,0.96,0.858,0.936,1.051,0.946,0.931,1,0.846,0.925,0.989,0.927,0.936,0.913,0.905,1,0.922,0.936,1.576,0.818,0.864,0.874,1.06,0.941,1,0.933,0.827,0.84,0.897,0.999,0.927,0.999,0.998,0.965,0.925,1.671,0.901,0.948,0.835,0.985,1,0.936,0.831,1,0.97,0.964,0.945,0.839,0.879,0.819,0.861,0.99,0.898,0.957,0.81,0.944,0.859,0.924,0.977,0.842],[0,0.823,0,0.26,0.69,0.262,0.234,0.754,0,0.04,0.238,0,0.927,0.382,0.308,0,0,0.006,0.998,0.144,0,0.412,0.238,0,0.133,0.111,0.292,0.217,0,0,0,0.925,0,0,0.562,0,0.369,0.72,0,0.57,1.04,0,0,0,0,0,0,0.562,0,0,0,0.999,0.414,0,0,0.076,0.763,0.449,0,0.312,0.636,0,1,0.563,0.695,0,0.022,0,0,0,0.432,0,0.418,0.99,0,0.419,0.144,0,0.075,0,0.977,0.372],[1,0,0.066,0.099,0,0.524,0.269,0.007,0.636,0.499,0.3,0,0,0.323,0.228,0.335,0.491,0.244,0.56,0.286,1,0.193,0.244,0.611,0.242,0.557,0.362,0.297,0,0,0,0,0.989,0.927,0,0.45,0.155,0,0.493,0,0.287,0,0.696,0.541,0.418,0.451,0,0,0,0.475,0.333,0,0.28,0,0,0,0,0,0,0.221,0,0,0,0,0,0,0.194,0.731,0.422,0.505,0.447,0.819,0.319,0,0,0.177,0.223,0.245,0.298,0,0,0.231],[0,0,0.287,0.321,0.134,0.086,0.158,0.028,0.11,0.24,0.137,0,0,0.055,0.089,0.09,0,0.439,0,0.303,0,0.181,0.176,0.07,0.31,0.205,0.134,0.095,0.461,0,0.846,0,0,0,0,0.155,0.187,0.279,0.17,0.25,0.099,0.011,0,0.12,0.145,0.18,1,0,0,0.164,0.03,0,0,0,0,0.484,0,0.197,0.358,0,0.2,0,0,0,0.016,0,0,0.233,0.146,0,0,0,0.125,0,0.898,0.122,0.148,0.438,0.13,0,0,0.08],[0,0,0,0,0,0.027,0.111,0.123,0.051,0.725,0.069,0,1,0.052,0.052,0.177,0.079,0.13,0,0.046,0,0.059,0.091,0.066,0.034,0.015,0.064,0.048,0.121,1,0,0,0,0,0,0.072,0,0,0,0.116,0,0.807,0.168,0.023,0.266,0.073,0,0,0.141,0.077,0.216,0,0,0.999,0.998,0.042,0.162,1.02,0,0.05,0,0.985,0,0,0.03,0,0,0,0.068,0.239,0,0,0,0,0,0.205,0.078,0.207,0.2,0,0,0.037],[0,0,0.472,0.282,0.16,0.068,0.187,0,0.167,0.027,0.185,1,0,0.169,0.203,0.28,0.258,0,0,0.101,0,0.102,0.142,0.213,0.14,0.049,0.2,0.289,0.35,0,0,0,0,0,0.373,0.236,0.194,0,0.259,0,0.15,0,0,0.19,0.231,0.236,0,0.371,0.686,0.124,0.318,0,0.233,0,0,0.364,0,0.006,0.543,0.365,0,0,0,0.374,0.091,1,0.753,0,0.309,0.096,0,0,0,0,0,0.033,0.217,0.054,0.156,0.924,0,0.121],[1,0.823,0.009,0,0,0.311,0.2,0.035,0,0,0.112,1,0,0,0.079,0.377,0,0.813,1.558,0.177,0,0,0.193,0,0.218,0,0,0,0,0,0,0.925,0.989,0,0,0,0.687,0,0,0,0.588,0.798,0,0.011,0,0,0,0,0.227,0,0.825,0,0,0,0,0.693,0,0,0,0,0,0,1,0,0.424,1,0.022,0,0,0.561,0,0,0,0,0,0.09,0.164,0,0.217,0,0.977,0.372],[0,0,0.815,0.962,0.606,0.655,0.759,0.014,0.965,1.53,0.818,0,1,0.981,0.802,0.504,0.828,0.007,0,0.703,1,0.946,0.698,0.96,0.64,0.936,1.051,0.946,0.931,0,0.846,0,0,0.927,0.936,0.913,0.218,1,0.922,0.936,0.989,0.02,0.864,0.863,0.861,0.941,1,0.933,0.6,0.84,0.072,0,0.927,0,0,0.272,0,0.671,0.901,0.948,0.835,0,0,0.936,0.407,0,0.948,0.964,0.945,0.278,0.879,0.819,0.861,0.99,0.898,0.866,0.646,0.944,0.642,0.924,0,0.47],[0,0,0,0,0.379,0,0,0.864,0,0,0,0,0.927,0,0,0,0,0,0,0,0,0,0,0,0,0,0,0,0,1,0,0,0,0,0,0,0,0,0,0,0,0,0,0,0.199,0,0,0,0,0,0,0.999,0,0.999,0.998,0,0.925,1,0,0,0,0.985,0,0,0,0,0,0,0,0,0,0,0,0,0,0,0,0,0,0,0,0],["Whole_Blood:0.459cs_1,Adipose_Subcutaneous:0.344cs_0,Artery_Aorta:NA,Skin_Sun_Exposed_Lower_leg:NA,Spleen:NA","Whole_Blood:0.8cs_1,Adipose_Subcutaneous:0.41cs_0,Artery_Aorta:NA,Skin_Sun_Exposed_Lower_leg:0.684cs_0,Spleen:NA","Whole_Blood:0.011cs_0,Adipose_Subcutaneous:0.018cs_0,Artery_Aorta:0.08cs_1,Skin_Sun_Exposed_Lower_leg:0.01cs_0,Spleen:0.012cs_0","Whole_Blood:0cs_0,Adipose_Subcutaneous:NA,Artery_Aorta:0cs_0,Skin_Sun_Exposed_Lower_leg:NA,Spleen:NA","Whole_Blood:NA,Adipose_Subcutaneous:NA,Artery_Aorta:NA,Skin_Sun_Exposed_Lower_leg:0.014cs_0,Spleen:0.079cs_1","Whole_Blood:NA,Adipose_Subcutaneous:0.51cs_1,Artery_Aorta:NA,Skin_Sun_Exposed_Lower_leg:0.025cs_0,Spleen:NA","Whole_Blood:0.782cs_0,Adipose_Subcutaneous:0cs_0,Artery_Aorta:0cs_0,Skin_Sun_Exposed_Lower_leg:0cs_0,Spleen:NA","Whole_Blood:0.047cs_0,Adipose_Subcutaneous:0.095cs_0,Artery_Aorta:0.344cs_0,Skin_Sun_Exposed_Lower_leg:NA,Spleen:NA","Whole_Blood:NA,Adipose_Subcutaneous:NA,Artery_Aorta:NA,Skin_Sun_Exposed_Lower_leg:NA,Spleen:NA","Whole_Blood:NA,Adipose_Subcutaneous:NA,Artery_Aorta:NA,Skin_Sun_Exposed_Lower_leg:NA,Spleen:NA","Whole_Blood:NA,Adipose_Subcutaneous:NA,Artery_Aorta:0.414cs_0,Skin_Sun_Exposed_Lower_leg:NA,Spleen:NA","Whole_Blood:0.013cs_0,Adipose_Subcutaneous:0.003cs_0,Artery_Aorta:0.006cs_0,Skin_Sun_Exposed_Lower_leg:NA,Spleen:0.003cs_0","Whole_Blood:0.013cs_0,Adipose_Subcutaneous:NA,Artery_Aorta:0.004cs_0,Skin_Sun_Exposed_Lower_leg:0.008cs_0,Spleen:0.003cs_0","Whole_Blood:0cs_0,Adipose_Subcutaneous:0cs_0,Artery_Aorta:0cs_0,Skin_Sun_Exposed_Lower_leg:0cs_0,Spleen:0cs_0","Whole_Blood:NA,Adipose_Subcutaneous:NA,Artery_Aorta:NA,Skin_Sun_Exposed_Lower_leg:NA,Spleen:NA","Whole_Blood:NA,Adipose_Subcutaneous:0.25cs_2,Artery_Aorta:NA,Skin_Sun_Exposed_Lower_leg:0.632cs_1,Spleen:0.615cs_1","Whole_Blood:0.002cs_0,Adipose_Subcutaneous:NA,Artery_Aorta:0cs_0,Skin_Sun_Exposed_Lower_leg:0cs_0,Spleen:NA","Whole_Blood:0.037cs_1,Adipose_Subcutaneous:0.425cs_1,Artery_Aorta:0.009cs_1,Skin_Sun_Exposed_Lower_leg:0.018cs_1,Spleen:0.03cs_1","Whole_Blood:0.761cs_1,Adipose_Subcutaneous:0.603cs_3,Artery_Aorta:0.023cs_0,Skin_Sun_Exposed_Lower_leg:NA,Spleen:NA","Whole_Blood:NA,Adipose_Subcutaneous:NA,Artery_Aorta:0.689cs_0,Skin_Sun_Exposed_Lower_leg:NA,Spleen:NA","Whole_Blood:0cs_0,Adipose_Subcutaneous:NA,Artery_Aorta:NA,Skin_Sun_Exposed_Lower_leg:NA,Spleen:0.41cs_2","Whole_Blood:NA,Adipose_Subcutaneous:NA,Artery_Aorta:NA,Skin_Sun_Exposed_Lower_leg:NA,Spleen:NA","Whole_Blood:0.585cs_1,Adipose_Subcutaneous:NA,Artery_Aorta:NA,Skin_Sun_Exposed_Lower_leg:NA,Spleen:NA","Whole_Blood:NA,Adipose_Subcutaneous:NA,Artery_Aorta:NA,Skin_Sun_Exposed_Lower_leg:NA,Spleen:NA","Whole_Blood:NA,Adipose_Subcutaneous:NA,Artery_Aorta:0.741cs_1,Skin_Sun_Exposed_Lower_leg:NA,Spleen:NA","Whole_Blood:NA,Adipose_Subcutaneous:NA,Artery_Aorta:NA,Skin_Sun_Exposed_Lower_leg:NA,Spleen:NA","Whole_Blood:NA,Adipose_Subcutaneous:NA,Artery_Aorta:NA,Skin_Sun_Exposed_Lower_leg:NA,Spleen:NA","Whole_Blood:0.045cs_0,Adipose_Subcutaneous:NA,Artery_Aorta:0.058cs_0,Skin_Sun_Exposed_Lower_leg:0.033cs_0,Spleen:0.025cs_0","Whole_Blood:0.001cs_0,Adipose_Subcutaneous:NA,Artery_Aorta:NA,Skin_Sun_Exposed_Lower_leg:NA,Spleen:NA","Whole_Blood:0.002cs_0,Adipose_Subcutaneous:0.001cs_0,Artery_Aorta:0.003cs_0,Skin_Sun_Exposed_Lower_leg:0.051cs_0,Spleen:0.004cs_0","Whole_Blood:NA,Adipose_Subcutaneous:NA,Artery_Aorta:NA,Skin_Sun_Exposed_Lower_leg:NA,Spleen:NA","Whole_Blood:0.212cs_4,Adipose_Subcutaneous:NA,Artery_Aorta:NA,Skin_Sun_Exposed_Lower_leg:NA,Spleen:NA","Whole_Blood:0cs_0,Adipose_Subcutaneous:0.112cs_1,Artery_Aorta:NA,Skin_Sun_Exposed_Lower_leg:NA,Spleen:NA","Whole_Blood:NA,Adipose_Subcutaneous:NA,Artery_Aorta:0cs_0,Skin_Sun_Exposed_Lower_leg:0cs_0,Spleen:0.176cs_0","Whole_Blood:NA,Adipose_Subcutaneous:NA,Artery_Aorta:NA,Skin_Sun_Exposed_Lower_leg:NA,Spleen:NA","Whole_Blood:0cs_0,Adipose_Subcutaneous:0cs_0,Artery_Aorta:0cs_0,Skin_Sun_Exposed_Lower_leg:0cs_0,Spleen:0cs_0","Whole_Blood:0.392cs_1,Adipose_Subcutaneous:0.18cs_0,Artery_Aorta:0.331cs_1,Skin_Sun_Exposed_Lower_leg:0.032cs_0,Spleen:0.676cs_1","Whole_Blood:0cs_0,Adipose_Subcutaneous:NA,Artery_Aorta:NA,Skin_Sun_Exposed_Lower_leg:NA,Spleen:NA","Whole_Blood:0.023cs_0,Adipose_Subcutaneous:0.022cs_0,Artery_Aorta:0.083cs_0,Skin_Sun_Exposed_Lower_leg:0.033cs_0,Spleen:NA","Whole_Blood:NA,Adipose_Subcutaneous:NA,Artery_Aorta:NA,Skin_Sun_Exposed_Lower_leg:NA,Spleen:NA","Whole_Blood:NA,Adipose_Subcutaneous:0.001cs_0,Artery_Aorta:NA,Skin_Sun_Exposed_Lower_leg:NA,Spleen:0.137cs_1","Whole_Blood:NA,Adipose_Subcutaneous:NA,Artery_Aorta:NA,Skin_Sun_Exposed_Lower_leg:NA,Spleen:NA","Whole_Blood:NA,Adipose_Subcutaneous:NA,Artery_Aorta:NA,Skin_Sun_Exposed_Lower_leg:NA,Spleen:NA","Whole_Blood:NA,Adipose_Subcutaneous:NA,Artery_Aorta:NA,Skin_Sun_Exposed_Lower_leg:NA,Spleen:NA","Whole_Blood:0cs_0,Adipose_Subcutaneous:0cs_0,Artery_Aorta:0cs_0,Skin_Sun_Exposed_Lower_leg:NA,Spleen:0.002cs_0","Whole_Blood:0.042cs_0,Adipose_Subcutaneous:NA,Artery_Aorta:NA,Skin_Sun_Exposed_Lower_leg:0.001cs_0,Spleen:NA","Whole_Blood:NA,Adipose_Subcutaneous:NA,Artery_Aorta:0cs_0,Skin_Sun_Exposed_Lower_leg:NA,Spleen:NA","Whole_Blood:0.107cs_0,Adipose_Subcutaneous:0.011cs_0,Artery_Aorta:0.014cs_0,Skin_Sun_Exposed_Lower_leg:NA,Spleen:NA","Whole_Blood:0cs_0,Adipose_Subcutaneous:0cs_0,Artery_Aorta:0cs_0,Skin_Sun_Exposed_Lower_leg:0cs_0,Spleen:0.724cs_3","Whole_Blood:NA,Adipose_Subcutaneous:0.127cs_0,Artery_Aorta:NA,Skin_Sun_Exposed_Lower_leg:NA,Spleen:NA","Whole_Blood:NA,Adipose_Subcutaneous:0.747cs_1,Artery_Aorta:NA,Skin_Sun_Exposed_Lower_leg:0.751cs_1,Spleen:0.732cs_1","Whole_Blood:NA,Adipose_Subcutaneous:0.015cs_2,Artery_Aorta:NA,Skin_Sun_Exposed_Lower_leg:0.414cs_2,Spleen:NA","Whole_Blood:NA,Adipose_Subcutaneous:NA,Artery_Aorta:NA,Skin_Sun_Exposed_Lower_leg:NA,Spleen:0.024cs_0","Whole_Blood:NA,Adipose_Subcutaneous:NA,Artery_Aorta:NA,Skin_Sun_Exposed_Lower_leg:NA,Spleen:NA","Whole_Blood:NA,Adipose_Subcutaneous:0.008cs_0,Artery_Aorta:0.008cs_0,Skin_Sun_Exposed_Lower_leg:NA,Spleen:NA","Whole_Blood:0cs_0,Adipose_Subcutaneous:0.001cs_0,Artery_Aorta:0.793cs_0,Skin_Sun_Exposed_Lower_leg:0.047cs_0,Spleen:0.421cs_0","Whole_Blood:NA,Adipose_Subcutaneous:NA,Artery_Aorta:NA,Skin_Sun_Exposed_Lower_leg:NA,Spleen:NA","Whole_Blood:NA,Adipose_Subcutaneous:NA,Artery_Aorta:NA,Skin_Sun_Exposed_Lower_leg:NA,Spleen:NA","Whole_Blood:NA,Adipose_Subcutaneous:NA,Artery_Aorta:NA,Skin_Sun_Exposed_Lower_leg:NA,Spleen:NA","Whole_Blood:NA,Adipose_Subcutaneous:0cs_0,Artery_Aorta:NA,Skin_Sun_Exposed_Lower_leg:NA,Spleen:NA","Whole_Blood:NA,Adipose_Subcutaneous:NA,Artery_Aorta:0cs_0,Skin_Sun_Exposed_Lower_leg:NA,Spleen:NA","Whole_Blood:NA,Adipose_Subcutaneous:0.024cs_0,Artery_Aorta:0.144cs_1,Skin_Sun_Exposed_Lower_leg:0cs_0,Spleen:NA","Whole_Blood:NA,Adipose_Subcutaneous:NA,Artery_Aorta:NA,Skin_Sun_Exposed_Lower_leg:NA,Spleen:NA","Whole_Blood:NA,Adipose_Subcutaneous:NA,Artery_Aorta:NA,Skin_Sun_Exposed_Lower_leg:NA,Spleen:NA","Whole_Blood:0.662cs_2,Adipose_Subcutaneous:NA,Artery_Aorta:NA,Skin_Sun_Exposed_Lower_leg:NA,Spleen:NA","Whole_Blood:0cs_0,Adipose_Subcutaneous:NA,Artery_Aorta:NA,Skin_Sun_Exposed_Lower_leg:NA,Spleen:NA","Whole_Blood:0.438cs_2,Adipose_Subcutaneous:0.327cs_2,Artery_Aorta:NA,Skin_Sun_Exposed_Lower_leg:0.158cs_3,Spleen:0.31cs_2","Whole_Blood:NA,Adipose_Subcutaneous:0cs_0,Artery_Aorta:NA,Skin_Sun_Exposed_Lower_leg:NA,Spleen:NA","Whole_Blood:0.013cs_0,Adipose_Subcutaneous:0.003cs_0,Artery_Aorta:0.003cs_0,Skin_Sun_Exposed_Lower_leg:NA,Spleen:0.007cs_0","Whole_Blood:NA,Adipose_Subcutaneous:0.713cs_1,Artery_Aorta:NA,Skin_Sun_Exposed_Lower_leg:0.684cs_1,Spleen:NA","Whole_Blood:0.265cs_0,Adipose_Subcutaneous:0.149cs_0,Artery_Aorta:0.203cs_0,Skin_Sun_Exposed_Lower_leg:NA,Spleen:0.157cs_0","Whole_Blood:NA,Adipose_Subcutaneous:NA,Artery_Aorta:NA,Skin_Sun_Exposed_Lower_leg:NA,Spleen:NA","Whole_Blood:NA,Adipose_Subcutaneous:NA,Artery_Aorta:NA,Skin_Sun_Exposed_Lower_leg:NA,Spleen:NA","Whole_Blood:0cs_0,Adipose_Subcutaneous:0cs_0,Artery_Aorta:NA,Skin_Sun_Exposed_Lower_leg:NA,Spleen:0cs_0","Whole_Blood:0.239cs_0,Adipose_Subcutaneous:NA,Artery_Aorta:NA,Skin_Sun_Exposed_Lower_leg:NA,Spleen:NA","Whole_Blood:NA,Adipose_Subcutaneous:NA,Artery_Aorta:0.029cs_0,Skin_Sun_Exposed_Lower_leg:0.647cs_1,Spleen:NA","Whole_Blood:NA,Adipose_Subcutaneous:0.214cs_1,Artery_Aorta:0.218cs_1,Skin_Sun_Exposed_Lower_leg:0.178cs_1,Spleen:0.2cs_1","Whole_Blood:NA,Adipose_Subcutaneous:0.009cs_0,Artery_Aorta:NA,Skin_Sun_Exposed_Lower_leg:NA,Spleen:NA","Whole_Blood:NA,Adipose_Subcutaneous:NA,Artery_Aorta:NA,Skin_Sun_Exposed_Lower_leg:0.432cs_2,Spleen:NA","Whole_Blood:NA,Adipose_Subcutaneous:NA,Artery_Aorta:NA,Skin_Sun_Exposed_Lower_leg:NA,Spleen:NA","Whole_Blood:0cs_0,Adipose_Subcutaneous:0cs_0,Artery_Aorta:NA,Skin_Sun_Exposed_Lower_leg:NA,Spleen:NA","Whole_Blood:0.673cs_1,Adipose_Subcutaneous:NA,Artery_Aorta:NA,Skin_Sun_Exposed_Lower_leg:NA,Spleen:NA"]],"container":"<table class=\"display\">\n  <thead>\n    <tr>\n      <th> <\/th>\n      <th>genename<\/th>\n      <th>combined_pip<\/th>\n      <th>Whole_Blood<\/th>\n      <th>Adipose_Subcutaneous<\/th>\n      <th>Artery_Aorta<\/th>\n      <th>Skin_Sun_Exposed_Lower_leg<\/th>\n      <th>Spleen<\/th>\n      <th>eQTL<\/th>\n      <th>sQTL<\/th>\n      <th>apaQTL<\/th>\n      <th>pip_single_group<\/th>\n    <\/tr>\n  <\/thead>\n<\/table>","options":{"pageLength":5,"columnDefs":[{"className":"dt-right","targets":[2,3,4,5,6,7,8,9,10]},{"orderable":false,"targets":0}],"order":[],"autoWidth":false,"orderClasses":false,"lengthMenu":[5,10,25,50,100]}},"evals":[],"jsHooks":[]}</script>
+<script type="application/json" data-for="htmlwidget-16707cd634e93674753d">{"x":{"filter":"none","vertical":false,"caption":"<caption style=\"caption-side: topleft; text-align = left; color:black;\">Novel genes identified by MG-cTWAS, WBC-ieu-b-30<\/caption>","data":[[],[],[],[],[],[],[],[],[],[],[],[]],"container":"<table class=\"display\">\n  <thead>\n    <tr>\n      <th> <\/th>\n      <th>genename<\/th>\n      <th>combined_pip<\/th>\n      <th>Whole_Blood<\/th>\n      <th>Adipose_Subcutaneous<\/th>\n      <th>Artery_Aorta<\/th>\n      <th>Skin_Sun_Exposed_Lower_leg<\/th>\n      <th>Spleen<\/th>\n      <th>eQTL<\/th>\n      <th>sQTL<\/th>\n      <th>apaQTL<\/th>\n      <th>pip_single_group<\/th>\n    <\/tr>\n  <\/thead>\n<\/table>","options":{"pageLength":5,"columnDefs":[{"className":"dt-right","targets":[2,3,4,5,6,7,8,9,10]},{"orderable":false,"targets":0}],"order":[],"autoWidth":false,"orderClasses":false,"lengthMenu":[5,10,25,50,100]}},"evals":[],"jsHooks":[]}</script>
 <br>
 <p>
 <button type="button" class="btn btn-default btn-workflowr btn-workflowr-sessioninfo" data-toggle="collapse" data-target="#workflowr-sessioninfo" style="display: block;">
